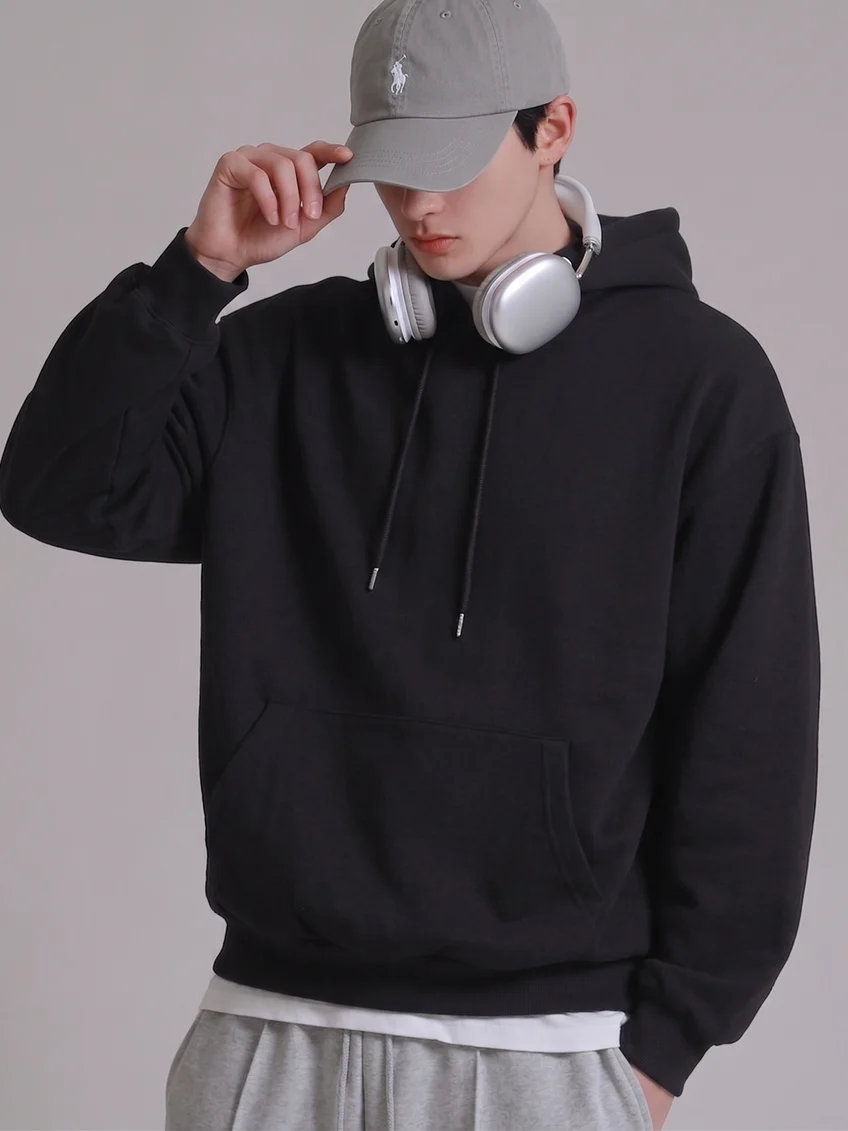
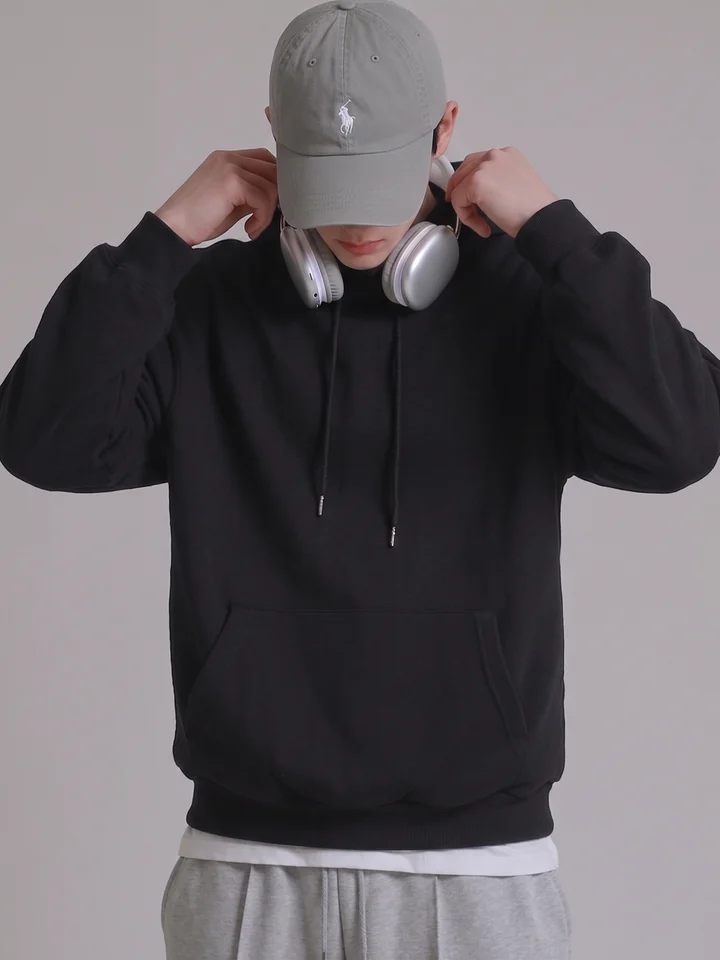
무지 오버핏 후드티: 모델 이미지 전체 교체 (Oatmeal 6장, Black 5장, Purple 4장), 제미나이 별 워터마크 제거, 썸네일 새로 제작
Claude-Session: https://claude.ai/code/session_01KQMEfT2ai38yMadH4zStAs

diff --git a/js/ai_works.js b/js/ai_works.js
@@ -33,7 +33,7 @@ window.AI_WORKS = [
     product: '무지 오버핏 후드티',
     title: '무지 오버핏 후드티 Oatmeal',
     thumb: 'img/ai/uretin/oatmeal-thumb.webp',
-    thumbPos: '50% 0%',
+    thumbPos: '50% 50%',
     models: [
       'img/ai/uretin/oatmeal-1.webp',
       'img/ai/uretin/oatmeal-2.webp',
@@ -53,14 +53,13 @@ window.AI_WORKS = [
     product: '무지 오버핏 후드티',
     title: '무지 오버핏 후드티 Black',
     thumb: 'img/ai/uretin/black-thumb.webp',
-    thumbPos: '50% 0%',
+    thumbPos: '50% 50%',
     models: [
       'img/ai/uretin/black-1.webp',
       'img/ai/uretin/black-2.webp',
       'img/ai/uretin/black-3.webp',
       'img/ai/uretin/black-4.webp',
-      'img/ai/uretin/black-5.webp',
-      'img/ai/uretin/black-6.webp'
+      'img/ai/uretin/black-5.webp'
     ],
     detail: [],   // 나중에 상세페이지 이미지를 img/ai/uretin/ 에 올리면 여기에 경로를 추가
     detailUrl: 'https://www.musinsa.com/products/7125254',   // 실제 상세페이지 주소 (새 창으로 열림, 색상 3종 공통) / 이전 스마트스토어: https://smartstore.naver.com/blueforce/products/13771553303
@@ -73,14 +72,12 @@ window.AI_WORKS = [
     product: '무지 오버핏 후드티',
     title: '무지 오버핏 후드티 Purple',
     thumb: 'img/ai/uretin/purple-thumb.webp',
-    thumbPos: '50% 20%',
+    thumbPos: '50% 50%',
     models: [
       'img/ai/uretin/purple-1.webp',
       'img/ai/uretin/purple-2.webp',
       'img/ai/uretin/purple-3.webp',
-      'img/ai/uretin/purple-4.webp',
-      'img/ai/uretin/purple-5.webp',
-      'img/ai/uretin/purple-6.webp'
+      'img/ai/uretin/purple-4.webp'
     ],
     detail: [],   // 나중에 상세페이지 이미지를 img/ai/uretin/ 에 올리면 여기에 경로를 추가
     detailUrl: 'https://www.musinsa.com/products/7125254',   // 실제 상세페이지 주소 (새 창으로 열림, 색상 3종 공통) / 이전 스마트스토어: https://smartstore.naver.com/blueforce/products/13771553303
